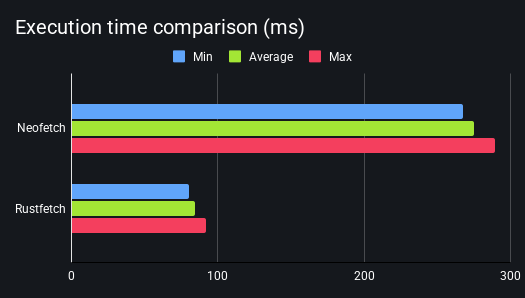
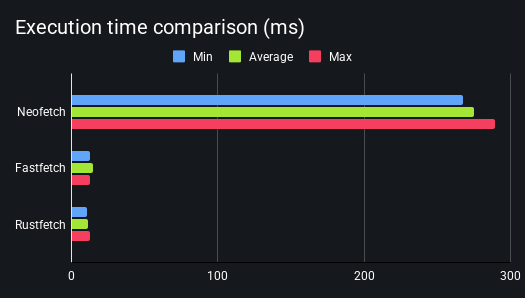
update execution time chart

Changed region(s): [[0.0305, 0.302, 0.9448, 0.8154]]

diff --git a/README.md b/README.md
@@ -14,7 +14,7 @@ Rustfetch is a CLI tool designed to **fetch system information** in the **fastes
 	<img src="docs/images/execution_time.png">
 </p>
 <p align="center">
-	<sub>Tests run on identical hardware, using the <a href="docs/architecture.md/#runtimesh">runtime script</a>.</sub>
+	<sub>Tests ran on identical hardware with default configs, using the <a href="docs/architecture.md/#runtimesh">runtime script</a> (30 runs, 5 warmups).</sub>
 </p>
 
 ## Installation
